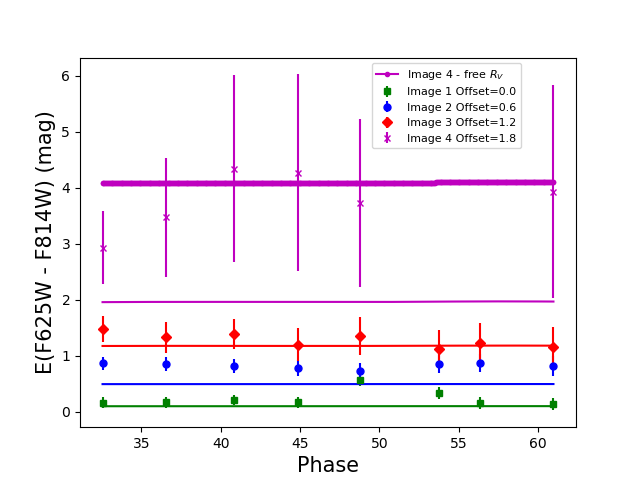
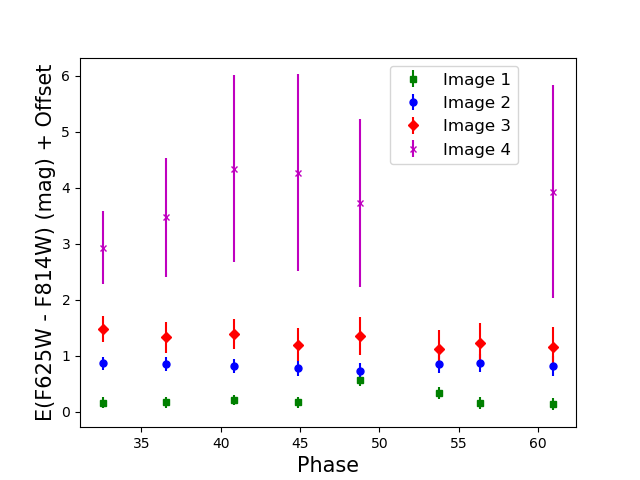
Joel changed something?

diff --git a/geu_followup.tex b/geu_followup.tex
@@ -83,6 +83,7 @@
 \newcommand{\hsth}{$F160W$\xspace}
 
 \newcommand{\sd}[1]{\textcolor{green}{SD: #1}}
+\newcommand{\jj}[1]{\textcolor{blue}{JJ: #1}}
 
 % Title of the paper, and the short title which is used in the headers.
 % Keep the title short and informative.
@@ -455,7 +456,7 @@ To reduce the degeneracy between $E(B-V)_{\rm host}$ and $E(B-V)_{\rm lens}$ whe
 \begin{figure}
     \centering
     \includegraphics[width=.5\textwidth]{ColourExcess_11fe_comparison_fid.png}
-    \caption{The evolution of the colour excess (relative to an unextinguish template from the nearby, normal SN~2011fe) as a function of phase in the $F625W - F814W$ filters for the four images. The inferred colour excess from all the filters for Image 4 is lower than the observed optical colour excess. The solid magenta line is the colour excess evolution for the case with $R_V$ for Image 4 as a free parameter.  The colour evolution shows that the chromatic, time-dependent effects of microlensing are small.}
+    \caption{The evolution of the colour excess (relative to an unextinguish template from the nearby, normal SN~2011fe) as a function of phase in the $F625W - F814W$ filters for the four images. Each Image's colour curve has been offset by an arbitrary amount for visibility. {\jj I think it is better to offset the points by some delta t or use different markers...}}
     \label{fig:colour_evolution}
 \end{figure}
 
